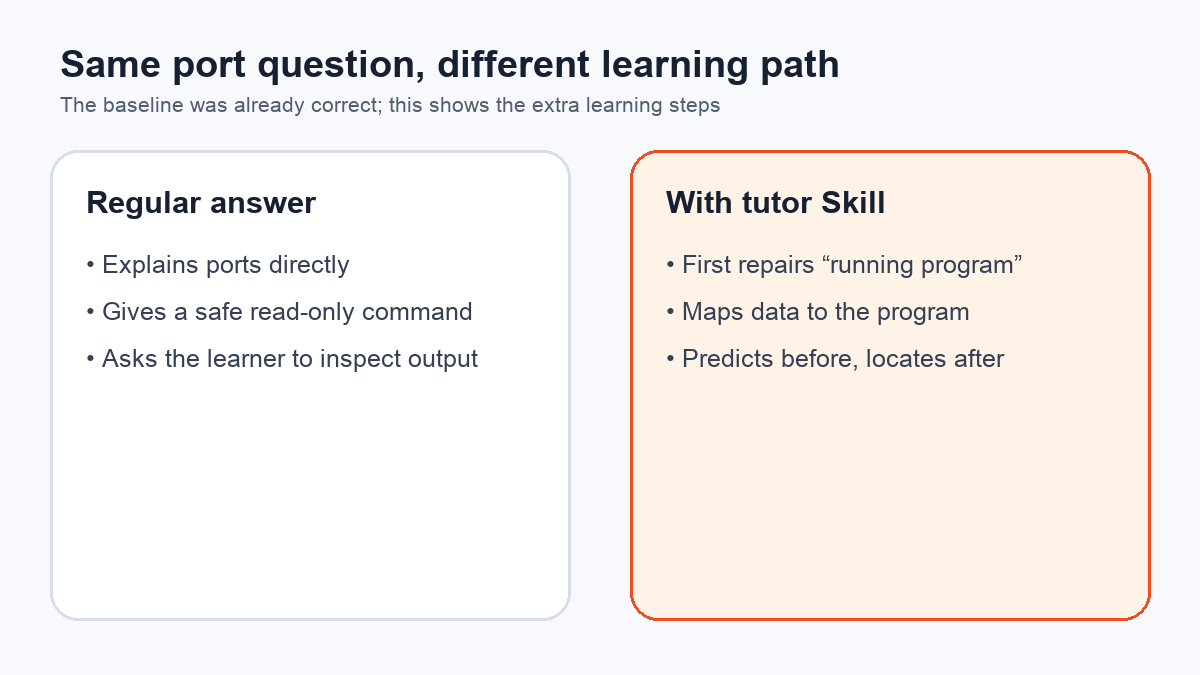
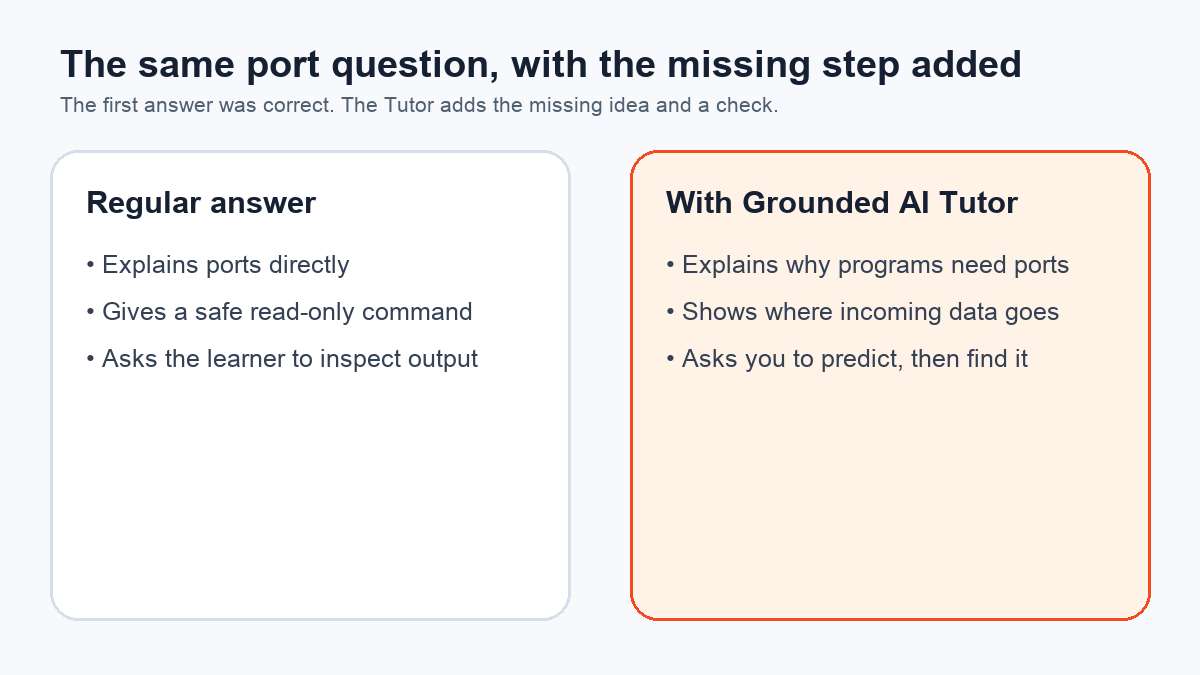
docs: make English tutor copy more natural

diff --git a/tests/test_public_materials.py b/tests/test_public_materials.py
@@ -70,8 +70,9 @@ class PublicMaterialsTests(unittest.TestCase):
         english = self.read("README.md")
         chinese = self.read("README.zh-CN.md")
 
-        self.assertIn("one exploratory pair, not a benchmark", english)
-        self.assertIn("no material accuracy advantage", english)
+        self.assertIn("two answers to one prompt", english)
+        self.assertIn("not a benchmark", english)
+        self.assertIn("did not make the answer clearly more accurate", english)
         self.assertIn("不是基准测试", chinese)
         self.assertIn("没有表现出实质性的准确性优势", chinese)
 
@@ -93,6 +94,46 @@ class PublicMaterialsTests(unittest.TestCase):
         for command in spec["install_or_update"]:
             self.assertIn(command, page)
         self.assertIn(spec["release_asset"], page)
+
+    def test_english_readme_uses_questions_a_learner_would_ask(self):
+        english = self.read("README.md")
+
+        self.assertIn("## Start where the explanation lost you", english)
+        self.assertIn("You mentioned processes and sockets", english)
+        self.assertIn("something safe I can check on my computer", english)
+        self.assertIn("shows the few files and steps", english)
+        self.assertIn("one quick way to check that you understood it", english)
+
+        stale_phrases = [
+            "repairs that layer",
+            "Return to the earliest missing prerequisite",
+            "locate-the-parts check",
+            "Start with the concept that lost you",
+            "trace a compact path through the evidence",
+            "one proportionate check of understanding",
+            "places it in the hardware",
+            "grounds project claims",
+            "proportionate restate",
+        ]
+        for phrase in stale_phrases:
+            self.assertNotIn(phrase, english)
+
+    def test_english_visuals_explain_the_learning_result_in_plain_words(self):
+        source = self.read("scripts/build_visuals.py")
+        flow = self.read("assets/teaching-flow.svg")
+
+        self.assertIn("Explains why programs need ports", source)
+        self.assertIn("Find what the learner missed", flow)
+        self.assertIn("Check understanding", flow)
+        for phrase in (
+            "First repairs",
+            "Predicts before, locates after",
+            "2. Evidence",
+            "3. Foundation",
+            "restate, predict",
+            "observe, transfer",
+        ):
+            self.assertNotIn(phrase, source + flow)
 
 
 if __name__ == "__main__":

diff --git a/scripts/build_visuals.py b/scripts/build_visuals.py
@@ -135,19 +135,19 @@ def comparison_card(
 def build_comparisons() -> None:
     comparison_card(
         ROOT / "assets" / "before-after.png",
-        title="Same port question, different learning path",
-        subtitle="The baseline was already correct; this shows the extra learning steps",
+        title="The same port question, with the missing step added",
+        subtitle="The first answer was correct. The Tutor adds the missing idea and a check.",
         left_label="Regular answer",
-        right_label="With tutor Skill",
+        right_label="With Grounded AI Tutor",
         left_text=(
             "• Explains ports directly\n"
             "• Gives a safe read-only command\n"
             "• Asks the learner to inspect output"
         ),
         right_text=(
-            "• First repairs “running program”\n"
-            "• Maps data to the program\n"
-            "• Predicts before, locates after"
+            "• Explains why programs need ports\n"
+            "• Shows where incoming data goes\n"
+            "• Asks you to predict, then find it"
         ),
     )
     comparison_card(

diff --git a/README.md b/README.md
@@ -9,96 +9,97 @@
 
 </div>
 
-You ask what a port is. The answer starts talking about protocols, processes and sockets. Now you have three more questions and still do not understand the first one.
+You ask what a port is. The answer starts using words such as protocol, process, and socket before explaining them. Now you have three more questions and still do not understand the first one.
 
-Grounded AI Tutor teaches computing, software engineering, web systems, data, cloud and AI without assuming a technical background. It finds the earliest concept the explanation skipped, repairs that layer and checks whether you can use the idea before moving on.
+Grounded AI Tutor teaches computing, software, websites, data, cloud systems, and AI without assuming a technical background. It goes back to the first idea the explanation skipped, explains that missing step, and checks your understanding before moving on.
 
 A real project can make the lesson more concrete, but it is not required. The Skill uses files, logs and pages only when you allow it and when they help answer the question. Otherwise it uses a clearly labeled generic example.
 
 ## When an explanation skips a step
 
-The learner had already heard an explanation of a port but still did not understand it. They asked:
+A learner asked what a port was. The first answer used "process" and "socket," which caused two new problems. They asked:
 
 ```text
-I still do not understand what a port is. Do not switch to a fancy analogy.
-Return to the earliest missing prerequisite and give me one safe observation.
+I still don't understand what a port is. You mentioned processes and sockets,
+but I don't know what those mean either. Please start earlier and give me
+something safe I can check on my computer.
 ```
 
 ![The same port question compared as a regular answer and with Grounded AI Tutor](assets/before-after.png)
 
-The regular answer was already accurate and safe. With the Skill, the response first repaired the idea that a computer runs several programs and must route incoming data to the right one. It then asked for a prediction before a read-only command and a locate-the-parts check afterward.
+The regular answer was already correct and safe. With the Skill, the response first explained why a computer needs a way to send incoming data to the right program. It then asked the learner to predict what a read-only command would show and to identify the program and port in the result.
 
-Read the [complete baseline](evals/results/pilot/baseline-misunderstanding.md), [response with the Skill](evals/results/pilot/with-skill-misunderstanding.md) and [comparison notes](evals/results/model-comparison.md). This is one exploratory pair, not a benchmark or proof of long-term learning gains.
+Read the [complete first answer](evals/results/pilot/baseline-misunderstanding.md), [answer with the Skill](evals/results/pilot/with-skill-misunderstanding.md), and [comparison notes](evals/results/model-comparison.md). These are two answers to one prompt. This is not a benchmark and does not prove that people will learn better over time.
 
-## Start with the concept that lost you
+## Start where the explanation lost you
 
-The public install command below was verified from a clean temporary project on 2026-08-13.
+On 2026-08-13, this command worked in a new empty test project.
 
-Install with the open Agent Skills CLI:
+Install it with the Agent Skills CLI:
 
 ```bash
 npx skills add weike-zhang/grounded-ai-tutor \
   --skill grounded-ai-tutor -g
 ```
 
-Then give this prompt to a client that supports Agent Skills:
+Then use this prompt in an app that supports Agent Skills:
 
 ```text
 Use $grounded-ai-tutor to explain what a port is.
 
-Assume I have no technical background. If the explanation depends on a
-concept I may not know, start there. Give me one safe way to check whether
-I understood it before moving on.
+I don't have a technical background. If you need a term I haven't learned,
+explain it first. Before moving on, give me one safe way to check that I
+understood.
 ```
 
-The response should begin at the first missing prerequisite, define new terms before using them and include one proportionate check of understanding.
+The response should start with the first missing idea, explain each new term before using it, and give one quick way to check that you understood it.
 
-See [docs/INSTALL.md](docs/INSTALL.md) for manual Codex installation, validation, update and uninstall paths.
+See [docs/INSTALL.md](docs/INSTALL.md) to install it by hand in Codex, check the install, update it, or remove it.
 
 ## Use your project when it helps
 
 ```text
 Use $grounded-ai-tutor to help me understand this project.
 
-Start when the user clicks Login and show me where the data travels.
-Define each technical term when it first appears and point to the project
-evidence behind specific claims. Do not change code yet.
+I clicked Login. Show me where the data goes and what each part does.
+Explain each new term when you first use it. Point to the file, log, or page
+that supports each claim about this project. Do not change code yet.
 ```
 
-When project material is available, the response should trace a compact path through the evidence it can inspect. If a relationship cannot be confirmed, it should say so instead of filling the gap with a plausible architecture.
+When project files are available, the response shows the few files and steps that connect the click to the result. If it cannot confirm a connection, it says so instead of guessing how the project works.
 
-A second read-only comparison uses a real release-bundle implementation, regression tests and a documented security failure. Both responses were strong; the Skill made the system path more explicit but showed no material accuracy advantage. Read the [project-grounded comparison](evals/results/project-grounded-comparison.md). Publishing this limit is part of the evidence standard.
+Another test asks about a real ZIP bug. It uses the ZIP builder and the test that stops the bug from returning. Both answers were useful. The Skill showed the path through the code more clearly, but it did not make the answer clearly more accurate. Read the [comparison using project files](evals/results/project-grounded-comparison.md). This limit matters when judging the result.
 
 ## What it changes for you
 
 | What happens now | What Grounded AI Tutor does |
 | --- | --- |
-| One explanation introduces several unfamiliar terms | Finds the first concept you lost and repairs that layer before adding more vocabulary |
-| You ask about a concept but the answer jumps ahead | Returns to the earliest missing prerequisite before adding more terms |
-| You want to connect an idea to your own work | Uses authorized project evidence when it makes the relationship clearer |
-| AI says “your project probably works like this” | Points to the file, log, page or explicit statement behind each project-specific claim |
+| One explanation introduces several unfamiliar terms | Finds the first idea you missed and explains it before adding more terms |
+| You ask about one idea but the answer jumps ahead | Goes back to the step where the explanation lost you |
+| You want to connect an idea to your own work | Uses only the project files you allow it to read, and only when they make the idea clearer |
+| AI says "your project probably works like this" | For each claim about your project, points to the file, log, page, or fact you gave it |
 | No project material is needed or available | Uses a generic example and labels it as generic |
-| You understood the explanation but cannot apply it | Uses one safe prediction, observation or locate-the-parts check to test your judgment |
+| You understood the words but cannot use the idea | Asks you to predict a result or find the relevant part in a safe command output |
 
-The Skill is not trying to make every answer longer. It is trying to stop at the layer where understanding first broke, then give you enough evidence to make the next judgment yourself.
+The goal is not a longer answer. It is to find where your understanding first broke and help you use the idea on your own.
 
 ## How it teaches
 
-1. It distinguishes understanding, diagnosis, implementation and learning plans, so “help me understand” does not silently become a code change.
-2. It starts from material already available instead of opening with a technical-background questionnaire.
-3. It finds the first missing concept and places it in the hardware → operating system → network → application → data → AI path.
-4. It grounds project claims in files, logs, UI state or explicit user statements and says when evidence is missing.
-5. It uses one proportionate restate, prediction, observation or transfer exercise instead of treating “heard it” as “can use it.”
-6. It saves local learner state only with explicit consent.
+1. It first checks whether you want to learn, find a problem, change code, or make a study plan. This stops a learning question from turning into a code change.
+2. It starts with what you already shared instead of asking you to rate your technical background.
+3. It finds the first missing idea and shows where it fits in the computer, network, app, data, or AI system.
+4. For claims about your project, it points to the file, log, screen, or fact you gave it. It says when it cannot find proof.
+5. It asks one short question or gives one safe check before moving on.
+6. It saves learning notes on your computer only when you clearly agree.
 
 ![Grounded AI Tutor teaching flow](assets/teaching-flow.svg)
 
-## Decisions it will not make for you
+## What it will not do
 
-- It will not modify a project or production system merely because you asked to learn.
-- It will not invent a plausible stack, file relationship, user or business result.
-- It will not present a generic example as a confirmed fact about your project.
-- It will not save personal learning information without consent.
+- It will not change a project or live system just because you asked to learn.
+- It will not make up the tools a project uses, how its files connect, or what users did.
+- It will not claim that a general example is true for your project.
+- It will not save personal learning information without your permission.
 
 ## Evidence and compatibility
 
@@ -106,44 +107,44 @@ The Skill is not trying to make every answer longer. It is trying to stop at the
 [![Validate](https://github.com/weike-zhang/grounded-ai-tutor/actions/workflows/validate.yml/badge.svg)](https://github.com/weike-zhang/grounded-ai-tutor/actions/workflows/validate.yml)
 [![License: MIT](https://img.shields.io/badge/License-MIT-F24B22.svg)](LICENSE)
 
-| Surface | Status | Evidence |
+| What was tested | Status | Proof |
 | --- | --- | --- |
-| Skill structure | Verified | Skill validator and CI |
-| Skills CLI discovery | Verified publicly | [Clean temporary-project verification](evals/results/public-install-v0.2.0.md) |
-| Codex plugin manifest | Verified locally | Manifest validation |
-| Live teaching behavior | Exploratory only | Two complete pairs; one uses exact project files |
-| Other Agent Skills hosts | Unverified | Community compatibility reports welcome |
+| Skill files | Checked | Skill check and GitHub Actions |
+| Skills CLI install | Checked from the public repository | [Test from a new empty folder](evals/results/public-install-v0.2.0.md) |
+| Codex plugin file | Checked on this computer | Plugin file check |
+| Teaching results | Early test only | Two complete pairs; one uses exact project files |
+| Other tools that support Agent Skills | Not tested | Reports with the tool name and version are welcome |
 
-Run the release-integrity checks:
+Check that the release files are complete:
 
 ```bash
 python evals/validate_fixtures.py
 ```
 
-These checks validate fixture structure and required files. They deliberately do not output a model-quality percentage. See [evals/README.md](evals/README.md) for the planned repeated evaluation design.
+These checks confirm that the example files have the required parts. They do not measure teaching quality. See [evals/README.md](evals/README.md) for the planned repeated tests.
 
 ## Privacy
 
-The public repository contains no private user project or real learner profile. Examples are fictional, and evaluations cite only publicly available repository files. A real profile may be created only with explicit consent at:
+The public repository contains no private user project or real learner profile. Examples are made up, and the tests use only public repository files. The Skill may create a real profile only if the learner clearly agrees. It saves the profile at:
 
 ```text
 .grounded-ai-tutor/learner-profile.md
 ```
 
-That path is ignored by default. Learners can view, correct, export or delete their state. Scan a profile after saving it or before reviewing whether it is suitable to share:
+Git ignores that path by default. Learners can view, correct, export, or delete their profile. Run this check after saving a profile or before sharing it:
 
 ```bash
 python skills/grounded-ai-tutor/scripts/validate_state.py \
   .grounded-ai-tutor/learner-profile.md
 ```
 
-A clean scan reports only that the structure passed and no configured sensitive-data pattern was detected. It does not grant permission to persist or share the profile; both actions still require explicit authorization.
+A clean scan means that the file has the expected parts and no known private-data pattern was found. It does not give anyone permission to save or share the profile. Both actions still need clear approval.
 
-Read [PRIVACY.md](PRIVACY.md) before enabling persistence.
+Read [PRIVACY.md](PRIVACY.md) before asking the Skill to save a profile.
 
 ## Contributing and license
 
-The most useful contribution is a reproducible teaching failure: an undefined term, invented project evidence, premature action or a case where the learner still cannot make the next judgment. See [CONTRIBUTING.md](CONTRIBUTING.md).
+The most useful contribution is a teaching problem someone else can repeat: an unexplained term, a made-up claim about a project, an unwanted action, or a case where the learner still cannot make the next judgment. See [CONTRIBUTING.md](CONTRIBUTING.md).
 
 Code and documentation use the [MIT License](LICENSE). The project author has confirmed the right to publish and redistribute the mascot as part of Grounded AI Tutor. Mascot-derived visuals are not separately licensed under MIT for reuse outside this project; see [assets/ASSET-NOTICE.md](assets/ASSET-NOTICE.md).
 
